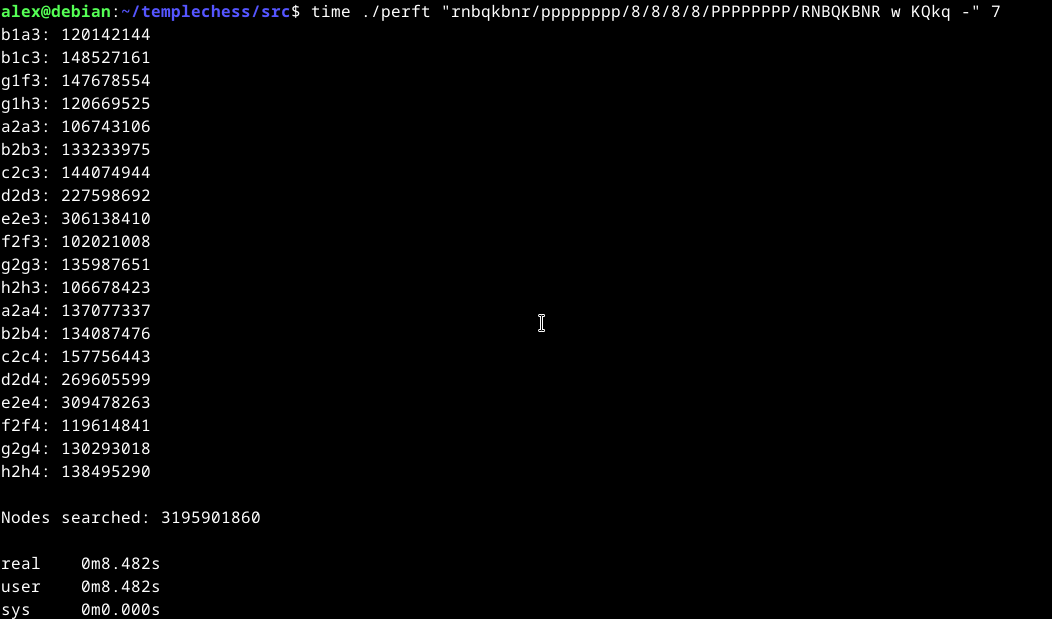
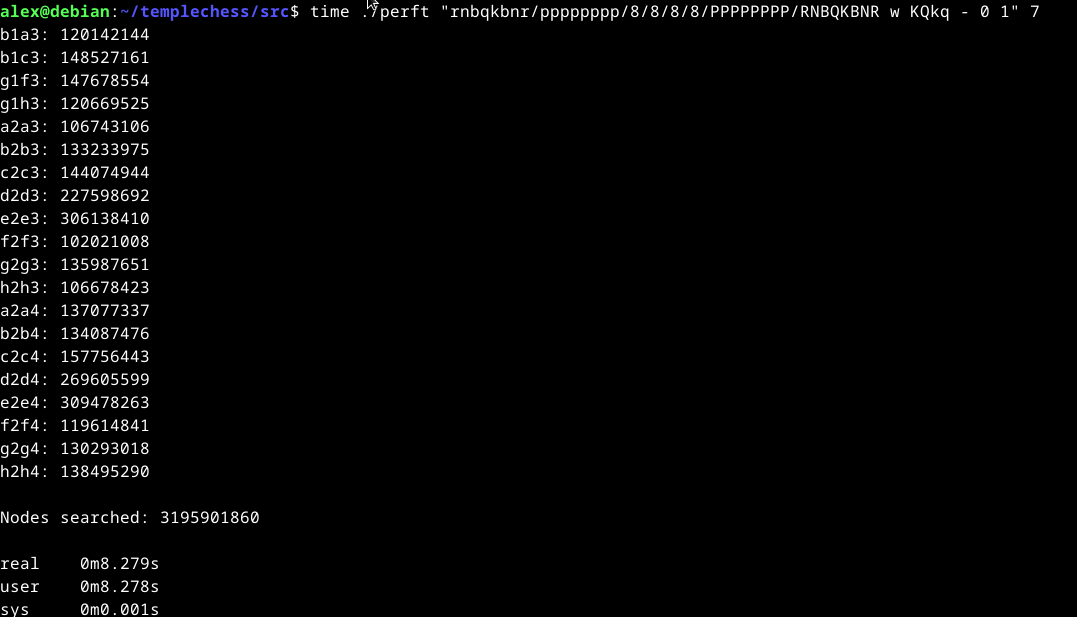
update readme

Changed region(s): [[0.0, 0.0, 0.9734, 0.7699], [0.0, 0.893, 0.1521, 1.0], [0.0, 0.8006, 0.2433, 0.8622]]

diff --git a/README.md b/README.md
@@ -1,5 +1,5 @@
 # templechess
-Templechess is a single threaded chess move generator written in C with no hash table. With my Intel i5-10210U Processor (max 4.2GHz) it completes perft(7) from the starting position in ~8.5 seconds which equates to ~376M nps. It is currently under 900 LOC including tests and Makefile.
+Templechess is a single threaded chess move generator written in C with no hash table. With my Intel i5-10210U Processor (max 4.2GHz) it completes perft(7) from the starting position in ~8.3 seconds which equates to ~385M nps. It is currently under 900 LOC including tests and Makefile.
 
 It assumes a UNIX-like operating system such as linux or mac and would need to be modified to compile on windows.
 
